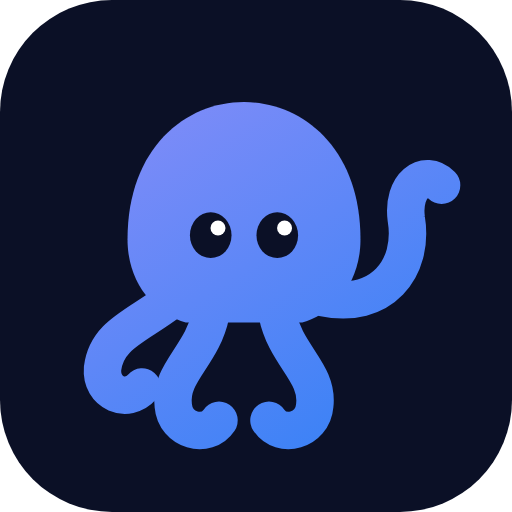
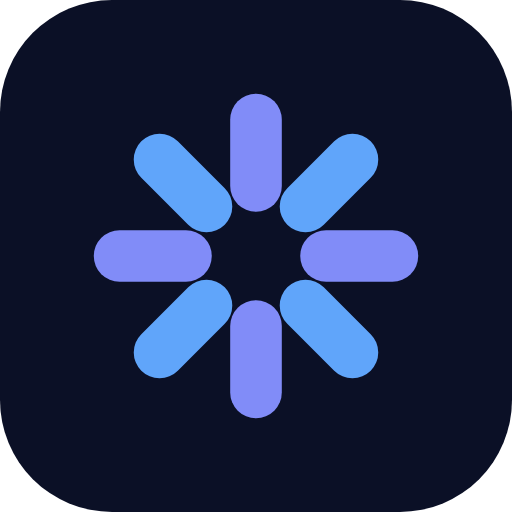
Replace the octopus with the new Octom mark (eight dashes in a wheel) (#80)
New Mark component in the header, sidebar, loading screen, onboarding and
landing hero (slow turn instead of the wave); new favicon, apple, PWA and
social preview images.

Claude-Session: https://claude.ai/code/session_01AxQnkf5Y4pqJWEzWcS9WxE

Changed region(s): [[0.1562, 0.1875, 0.9062, 0.875]]

diff --git a/lib/og.tsx b/lib/og.tsx
@@ -3,8 +3,8 @@ import type { Lang } from "@/lib/seo";
 
 export const OG_SIZE = { width: 1200, height: 630 };
 
-// The octopus mascot as an inline picture, so the preview needs no file or font download.
[1 lines of base64/hex data omitted]
+// The Octom mark as an inline picture, so the preview needs no file or font download.
[1 lines of base64/hex data omitted]
 
 const COPY: Record<Lang, { title: string; sub: string }> = {
   en: { title: "Know who to contact today.", sub: "The simple follow-up CRM. Free during beta." },
@@ -52,7 +52,7 @@ export function renderOg(lang: Lang) {
           </div>
         </div>
         {/* eslint-disable-next-line @next/next/no-img-element */}
-        <img src={MASCOT} width={380} height={361} alt="" />
+        <img src={MARK} width={340} height={340} alt="" />
       </div>
     ),
     OG_SIZE

diff --git a/components/app-sidebar.tsx b/components/app-sidebar.tsx
@@ -7,7 +7,7 @@ import {
   Home, Users, LayoutGrid, Sparkles, UserPlus, Database,
   UserCircle, Plus, ChevronDown, PanelLeftClose, PanelLeftOpen, Briefcase, LogOut,
 } from "lucide-react";
-import Mascot from "@/components/mascot";
+import Mark from "@/components/mark";
 import LanguageSwitcher from "@/components/language-switcher";
 import { useLanguage } from "@/components/language-provider";
 import { useOrgId } from "@/hooks/use-org-id";
@@ -116,7 +116,7 @@ export default function AppSidebar({ collapsed, onToggle }: { collapsed: boolean
         collapsed ? "w-[76px]" : "w-[272px]"
       }`}
     >
-      {/* Header: mascot, workspace, collapse toggle */}
+      {/* Header: mark, workspace, collapse toggle */}
       <div className={`flex items-center gap-2 px-4 pb-3 pt-4 ${collapsed ? "flex-col" : ""}`}>
         <Link
           href="/dashboard"
@@ -124,7 +124,7 @@ export default function AppSidebar({ collapsed, onToggle }: { collapsed: boolean
           className="group flex min-w-0 flex-1 items-center gap-3 rounded-xl p-1 transition-colors hover:bg-slate-50"
         >
           <span className="grid h-10 w-10 shrink-0 place-items-center rounded-xl bg-navy shadow-soft transition-transform duration-300 group-hover:scale-105">
-            <Mascot className="h-7 w-7" />
+            <Mark className="h-7 w-7" />
           </span>
           <span className={`min-w-0 overflow-hidden transition-all duration-300 ${collapsed ? "w-0 opacity-0" : "w-full opacity-100"}`}>
             <span className="block truncate text-sm font-extrabold leading-tight text-ink">{workspace || BRAND}</span>

diff --git a/components/landing.tsx b/components/landing.tsx
@@ -6,7 +6,7 @@ import {
   Sun, Trash2, UserPlus, User, Users, type LucideIcon,
 } from "lucide-react";
 import Logo from "@/components/logo";
-import Mascot from "@/components/mascot";
+import Mark from "@/components/mark";
 import LanguageSwitcher from "@/components/language-switcher";
 import HeroDemo from "@/components/hero-demo";
 import ScrollProgress from "@/components/scroll-progress";
@@ -106,7 +106,7 @@ export default function Home() {
               </div>
             </div>
             <div className="hm" aria-hidden="true">
-              <Mascot wave />
+              <Mark wave />
               <span className="bubble">{t("lp.hero.bubble")}</span>
             </div>
           </div>
@@ -355,7 +355,7 @@ export default function Home() {
                 <span>{t("lp.final.note")}</span>
               </div>
             </div>
-            <div className="bigm" aria-hidden="true"><Mascot wave /></div>
+            <div className="bigm" aria-hidden="true"><Mark wave /></div>
           </div>
         </section>
       </main>

diff --git a/components/loading-screen.tsx b/components/loading-screen.tsx
@@ -1,9 +1,9 @@
 "use client";
 
-import Mascot from "@/components/mascot";
+import Mark from "@/components/mark";
 import { useLanguage } from "@/components/language-provider";
 
-/** Full-area loading state: the octopus floats gently above a soft shadow. */
+/** Full-area loading state: the Octom mark floats gently above a soft shadow. */
 export default function LoadingScreen() {
   const { t } = useLanguage();
   return (
@@ -11,7 +11,7 @@ export default function LoadingScreen() {
       <div className="flex flex-col items-center gap-4">
         <div className="relative">
           <span aria-hidden="true" className="absolute -inset-6 rounded-full bg-indigo-200/40 blur-2xl" />
-          <Mascot className="octom-float relative h-20 w-20" />
+          <Mark className="octom-float relative h-20 w-20" />
         </div>
         <span aria-hidden="true" className="octom-shadow h-2 w-14 rounded-full bg-indigo-300/40 blur-sm" />
         <p className="text-sm font-semibold text-slate-500">{t("common.loading")}</p>

diff --git a/app/landing.css b/app/landing.css
@@ -268,9 +268,9 @@ html { scrollbar-width: thin; scrollbar-color: #0b1026 #eef2f7; }
 .lp .ftc b{font-weight:600;color:#fff}
 .lp .ftc a{color:#98A1C4}
 .lp .ftc a:hover{color:#fff}
-.lp .wave{transform-box:fill-box;transform-origin:0% 90%;animation:lp-wave 3.6s ease-in-out infinite}
+.lp .wave{transform-box:fill-box;transform-origin:50% 50%;animation:lp-spin 40s linear infinite}
 @keyframes lp-pulse{0%,100%{opacity:1}50%{opacity:.35}}
-@keyframes lp-wave{0%,55%,100%{transform:rotate(0)}10%{transform:rotate(-16deg)}22%{transform:rotate(10deg)}34%{transform:rotate(-13deg)}46%{transform:rotate(7deg)}}
+@keyframes lp-spin{to{transform:rotate(360deg)}}
 @keyframes lp-float{from{transform:translateY(0)}to{transform:translateY(-9px)}}
 @keyframes lp-c3{0%,40%{opacity:1}44%,94%{opacity:0}98%,100%{opacity:1}}
 @keyframes lp-c2{0%,40%{opacity:0}46%,92%{opacity:1}97%,100%{opacity:0}}

diff --git a/components/mark.tsx b/components/mark.tsx
@@ -1,0 +1,24 @@
+/**
+ * The Octom mark: eight rounded dashes around a centre ("octo" = eight),
+ * alternating violet and blue. Decorative: the surrounding text carries the meaning.
+ * `wave` turns it slowly (used on the landing hero); respects reduced motion.
+ */
+export default function Mark({ className = "", wave = false }: { className?: string; wave?: boolean }) {
+  const dashes = Array.from({ length: 8 }, (_, k) => (
+    <rect
+      key={k}
+      x="43"
+      y="6"
+      width="14"
+      height="32"
+      rx="7"
+      fill={k % 2 === 0 ? "#6366F1" : "#3B82F6"}
+      transform={`rotate(${k * 45} 50 50)`}
+    />
+  ));
+  return (
+    <svg className={className} viewBox="0 0 100 100" aria-hidden="true" focusable="false">
+      {wave ? <g className="wave">{dashes}</g> : dashes}
+    </svg>
+  );
+}

diff --git a/app/onboarding/page.tsx b/app/onboarding/page.tsx
@@ -4,7 +4,7 @@ import { useState } from "react";
 import { useRouter } from "next/navigation";
 import RequireAuth from "@/components/require-auth";
 import AuthShell, { AuthTitle, authButton, authError, authInputDark, authLabel } from "@/components/auth-shell";
-import Mascot from "@/components/mascot";
+import Mark from "@/components/mark";
 import { useLanguage } from "@/components/language-provider";
 import { supabase } from "@/lib/supabase";
 
@@ -39,7 +39,7 @@ function OnboardingForm() {
 
   return (
     <AuthShell>
-      <Mascot className="mx-auto mb-4 h-16 w-16" />
+      <Mark className="mx-auto mb-4 h-16 w-16" />
       <AuthTitle>{t("onb.title")}</AuthTitle>
       <p className="mt-3 text-center text-slate-300">{t("onb.sub")}</p>
 

diff --git a/components/logo.tsx b/components/logo.tsx
@@ -1,4 +1,4 @@
-import Mascot from "@/components/mascot";
+import Mark from "@/components/mark";
 
 /**
  * Octom wordmark: rounded letters (Nunito), solid colours, no gradients.
@@ -19,7 +19,7 @@ export function Logo({
       style={{ fontFamily: "var(--font-nunito), var(--font-inter), system-ui, sans-serif" }}
       aria-label="OCTOM One"
     >
-      {mark && <Mascot className="h-8 w-8 shrink-0" />}
+      {mark && <Mark className="h-8 w-8 shrink-0" />}
       <span aria-hidden="true" className="inline-flex items-baseline gap-[0.3em]">
         <span className={light ? "text-white" : "text-ink"}>octom</span>
         <span className={light ? "text-indigo-300" : "text-brand"}>One</span>

diff --git a/components/hero-demo.tsx b/components/hero-demo.tsx
@@ -1,7 +1,7 @@
 "use client";
 
 import { Lock, Check } from "lucide-react";
-import Mascot from "@/components/mascot";
+import Mark from "@/components/mark";
 import { useLanguage } from "@/components/language-provider";
 
 /**
@@ -57,7 +57,7 @@ export default function HeroDemo() {
             </ul>
           </div>
           <div className="dr">
-            <div className="emp"><Mascot className="" />{t("lp.demo.empty")}</div>
+            <div className="emp"><Mark className="" />{t("lp.demo.empty")}</div>
             <div className="dc">
               <div className="lb">{t("lp.demo.draft")}</div>
               <div className="who">{t("lp.demo.for")} Andrei Pop</div>

diff --git a/CHANGELOG.md b/CHANGELOG.md
@@ -2,6 +2,7 @@
 
 ## Unreleased
 
+- New logo: the octopus is replaced by a mark of eight rounded dashes in a wheel (violet and blue). It is used in the header, sidebar, loading screen, landing hero, social preview image, favicon and installed-app icons.
 - www.octom.eu now redirects to octom.eu (same path), so search engines see one copy of every page and the sitemap host matches.
 - Search and AI visibility: every public page now exists in English and Romanian (`/ro/...`) with its own title, description, canonical address and hreflang twin; legal, docs and contact pages are rendered in the right language on the server. Audience pages (`/for/...`) have problems, steps and real FAQs. Structured data (Organization, WebSite, SoftwareApplication, FAQPage, BreadcrumbList), `/llms.txt` and `/llms-full.txt` for AI assistants, robots.txt that welcomes AI search crawlers, a sitemap with hreflang and stable dates, a Romanian social preview image, IndexNow for Bing and others, optional Search Console and Bing verification codes. See `docs/seo.md`.
 - Database changes are now tracked: new files in `supabase/migrations/`, a small `app_migrations` table, and `/api/health` reports `"schema": true` when every required change is applied (false or null otherwise, details only in the server log). A test keeps the file list and the app's list in sync.
